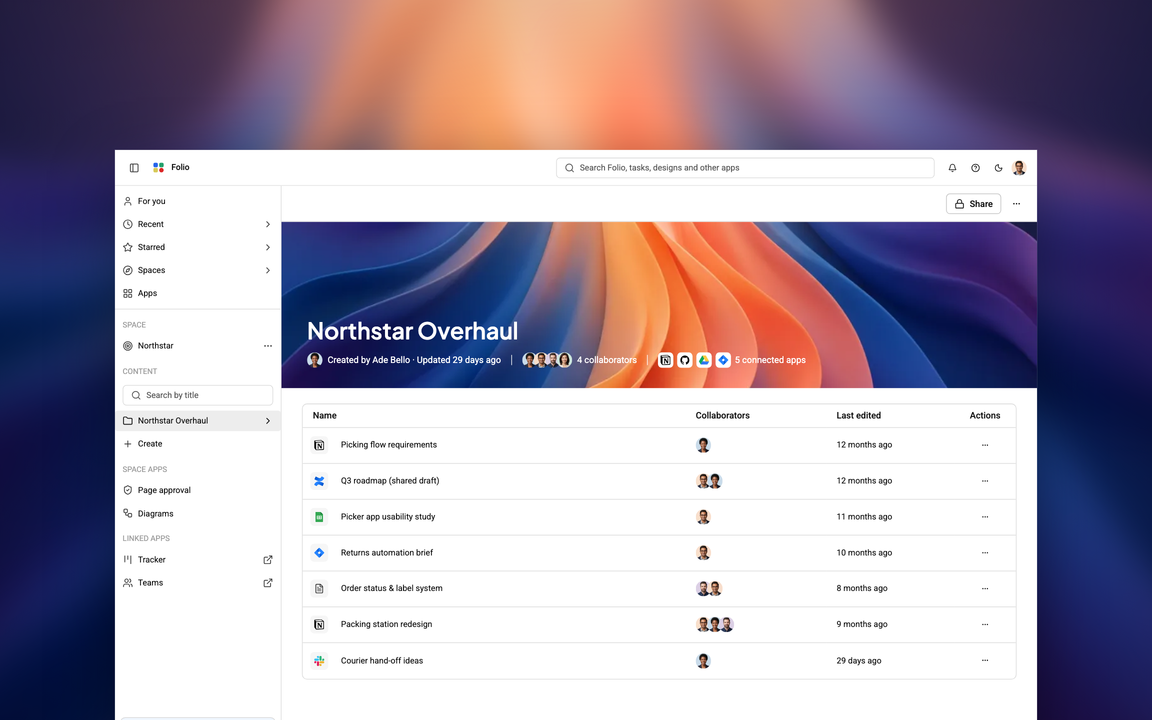
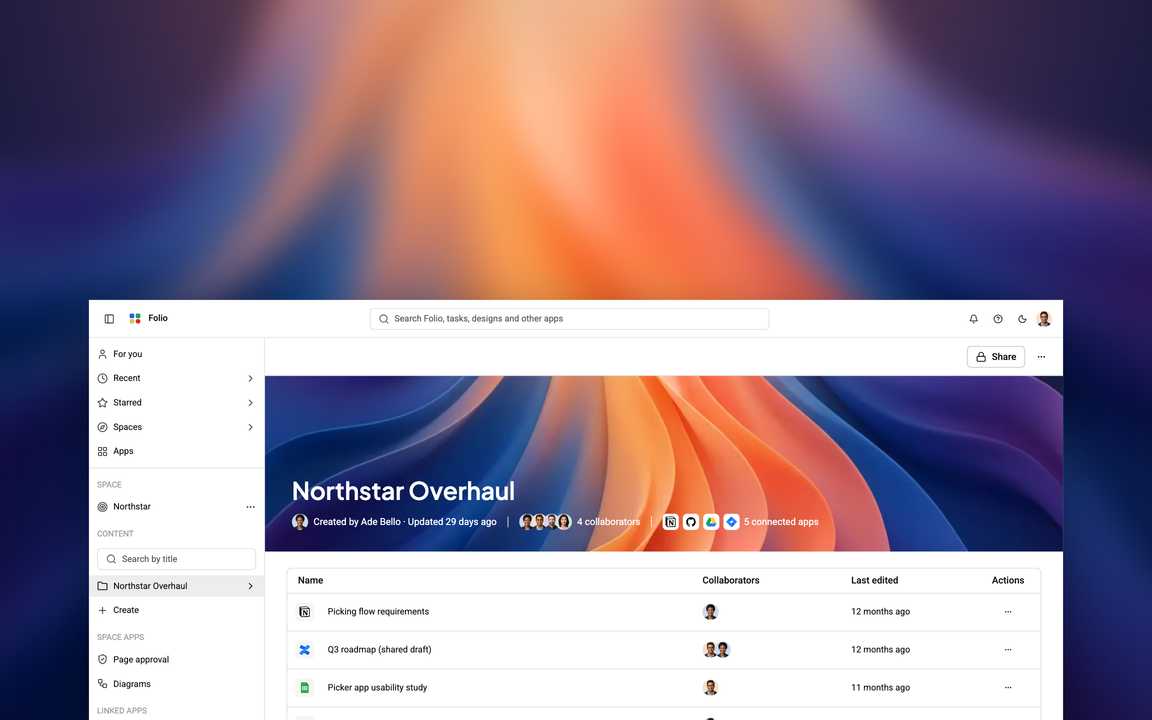
Block 04: responsive layout, centred top search, aligned thumbnail
- Below 1024px the sidebar is a drawer from the top bar (Esc and backdrop
  close it); the top search hides; the table drops columns; banner and
  document tighten. No sideways scroll at 390 or 768.
- The top search is centred between the logo and the icons, as in Figma.
  TopBar's additional slot can't centre, so it rides in the leading slot.
- Thumbnail window placed like the other blocks (300px down, 89px in,
  974px wide at 1152×720).

diff --git a/blocks/folio/index.tsx b/blocks/folio/index.tsx
@@ -47,6 +47,8 @@ function subscribeToTheme(onChange: () => void) {
 export default function Folio({ screen: segments = [], basePath = '/blocks/folio' }: { screen?: string[]; basePath?: string }) {
 	const [screen, setScreen] = useState<Screen>(() => toScreen(segments[0]));
 	const [collapsed, setCollapsed] = useState(false);
+	// Below 1024px the sidebar is a drawer over the content instead of a rail.
+	const [drawerOpen, setDrawerOpen] = useState(false);
 	// The space's page tree: closed on the overview, open on a page (as in Figma).
 	const [treeOpen, setTreeOpen] = useState(() => toScreen(segments[0]) === 'page');
 	const [query, setQuery] = useState('');
@@ -55,6 +57,7 @@ export default function Folio({ screen: segments = [], basePath = '/blocks/folio
 	const go = useCallback(
 		(next: Screen) => {
 			setScreen(next);
+			setDrawerOpen(false);
 			if (next === 'page') setTreeOpen(true);
 			window.history.pushState(null, '', next === 'space' ? basePath : `${basePath}/${PAGE_SLUG}`);
 			document.getElementById('folio-main')?.scrollTo({ top: 0 });
@@ -67,6 +70,22 @@ export default function Folio({ screen: segments = [], basePath = '/blocks/folio
 		window.addEventListener('popstate', sync);
 		return () => window.removeEventListener('popstate', sync);
 	}, [basePath]);
+
+	useEffect(() => {
+		if (!drawerOpen) return;
+		const close = (event: globalThis.KeyboardEvent) => event.key === 'Escape' && setDrawerOpen(false);
+		window.addEventListener('keydown', close);
+		return () => window.removeEventListener('keydown', close);
+	}, [drawerOpen]);
+
+	function toggleSidebar() {
+		if (window.matchMedia('(min-width: 1024px)').matches) {
+			setCollapsed((value) => !value);
+		} else {
+			setCollapsed(false);
+			setDrawerOpen((value) => !value);
+		}
+	}
 
 	function toggleTheme() {
 		const next = theme === 'dark' ? 'light' : 'dark';
@@ -109,26 +128,29 @@ export default function Folio({ screen: segments = [], basePath = '/blocks/folio
 		<div className={`flex h-screen flex-col bg-background-canvas ${onBrand}`}>
 			<TopBar
 				showSidebarToggle
-				onSidebarToggle={() => setCollapsed((value) => !value)}
+				onSidebarToggle={toggleSidebar}
 				showLogo={false}
 				showProductName={false}
 				showLeading
+				// TopBar keeps its search slot in the fixed right cluster. Figma centres the search in the
+				// space between the logo and the icons, so it rides in the leading slot, which is stretched
+				// with the [&>div:first-child]:flex-1 below (NOKGRID-GAPS.md).
 				leading={
-					<span className='flex items-center gap-component-sm text-text-primary' style={text['label-md']}>
-						<span className='flex size-6 items-center justify-center'>
-							<FolioMark />
+					<>
+						<span className='flex shrink-0 items-center gap-component-sm text-text-primary' style={text['label-md']}>
+							<span className='flex size-6 items-center justify-center'>
+								<FolioMark />
+							</span>
+							{app.name}
 						</span>
-						{app.name}
-					</span>
-				}
-				showAdditional
-				additional={
-					<div className='flex w-full justify-center'>
-						<div className='w-[591px] max-w-full'>
-							<SearchInput size='sm' placeholder={app.search} aria-label={app.search} />
+						<div className='hidden min-w-0 flex-1 justify-center px-component-lg lg:flex'>
+							<div className='w-[591px] max-w-full'>
+								<SearchInput size='sm' placeholder={app.search} aria-label={app.search} />
+							</div>
 						</div>
-					</div>
+					</>
 				}
+				showAdditional={false}
 				showSearch={false}
 				showActions
 				actions={
@@ -147,10 +169,18 @@ export default function Folio({ screen: segments = [], basePath = '/blocks/folio
 						<Face person={me} />
 					</div>
 				}
-				className='w-full shrink-0'
+				className='w-full shrink-0 [&>div:first-child]:flex-1'
 			/>
 
-			<div className='flex min-h-0 flex-1'>
+			<div className='relative flex min-h-0 flex-1'>
+				{drawerOpen && (
+					<button
+						type='button'
+						aria-label='Close navigation'
+						onClick={() => setDrawerOpen(false)}
+						className='absolute inset-0 z-20 bg-black/40 lg:hidden'
+					/>
+				)}
 				<Sidebar
 					role='navigation'
 					aria-label={app.name}
@@ -158,7 +188,7 @@ export default function Folio({ screen: segments = [], basePath = '/blocks/folio
 					onCollapsedChange={setCollapsed}
 					showBorder={false}
 					showFooter={false}
-					className='relative z-10 shrink-0'
+					className={`relative z-10 shrink-0 max-lg:absolute max-lg:inset-y-0 max-lg:left-0 max-lg:z-30 max-lg:shadow-lg ${drawerOpen ? '' : 'max-lg:hidden'}`}
 					style={{
 						height: '100%',
 						borderRight: '1px solid var(--nok-color-border-default)',
@@ -250,19 +280,19 @@ export default function Folio({ screen: segments = [], basePath = '/blocks/folio
 				</Sidebar>
 
 				<main id='folio-main' className='relative min-w-0 flex-1 overflow-y-auto bg-background-surface'>
-					<div className='sticky top-0 z-10 flex h-14 items-center justify-between border-0 border-b border-solid border-border-default bg-background-surface px-component-lg'>
-						<div>
+					<div className='sticky top-0 z-10 flex h-14 items-center justify-between gap-component-md border-0 border-b border-solid border-border-default bg-background-surface px-component-lg'>
+						<div className='min-w-0 overflow-hidden'>
 							{screen === 'page' && (
 								<Breadcrumb aria-label='Breadcrumb'>
-									<BreadcrumbItem label={space.name} showSeparator={false} />
-									<BreadcrumbItem label={space.project} onClick={() => go('space')} />
-									<BreadcrumbItem label={page.title} state='current' aria-current='page' />
+									<BreadcrumbItem label={space.name} showSeparator={false} className='max-sm:hidden' />
+									<BreadcrumbItem label={space.project} onClick={() => go('space')} className='max-sm:[&>*:first-child]:hidden' />
+									<BreadcrumbItem label={page.title} state='current' aria-current='page' className='max-sm:hidden' />
 								</Breadcrumb>
 							)}
 						</div>
 						<div className='flex items-center gap-component-sm'>
 							{screen === 'page' && (
-								<span className='text-text-secondary' style={text['body-sm']}>
+								<span className='text-text-secondary max-md:hidden' style={text['body-sm']}>
 									{page.published}
 								</span>
 							)}
@@ -279,7 +309,7 @@ export default function Folio({ screen: segments = [], basePath = '/blocks/folio
 			</div>
 
 			{screen === 'space' && (
-				<div className='fixed bottom-6 right-6 z-20 flex flex-col gap-component-md'>
+				<div className='fixed bottom-4 right-4 z-20 lg:bottom-6 lg:right-6 flex flex-col gap-component-md'>
 					{/* Icon-only md squeezes its icon (NOKGRID-GAPS.md), so the padding is set back to Figma's 8px. */}
 					<Button variant='secondary' size='md' icon='Info' iconPosition='only' aria-label='About this space' className='!p-component-sm' />
 					<Button

diff --git a/blocks/folio/space.tsx b/blocks/folio/space.tsx
@@ -8,24 +8,24 @@ import { text } from './text';
 export function Space({ open }: { open: (doc: Doc) => void }) {
 	return (
 		<>
-			<header className='relative flex h-[260px] shrink-0 flex-col justify-end gap-component-md overflow-hidden px-10 py-8'>
+			<header className='relative flex min-h-[220px] shrink-0 flex-col justify-end gap-component-md overflow-hidden px-5 py-6 md:h-[260px] md:px-10 md:py-8'>
 				{/* eslint-disable-next-line @next/next/no-img-element */}
 				<img src={space.banner} alt='' className='pointer-events-none absolute inset-0 size-full object-cover' />
 				{/* The banner text is white over the artwork in both modes. */}
-				<h1 className='relative m-0 text-white' style={{ ...text['display-sm'], fontSize: 36, lineHeight: '44px' }}>
+				<h1 className='relative m-0 text-[28px] leading-9 text-white md:text-[36px] md:leading-[44px]' style={{ ...text['display-sm'], fontSize: undefined, lineHeight: undefined }}>
 					{space.project}
 				</h1>
-				<div className='relative flex items-center gap-component-lg text-white' style={text['body-md']}>
+				<div className='relative flex flex-wrap items-center gap-x-component-lg gap-y-component-sm text-white' style={text['body-md']}>
 					<span className='flex items-center gap-component-sm'>
 						<Face person={space.createdBy} />
 						Created by {space.createdBy.name} · {space.updated}
 					</span>
-					<span aria-hidden='true' className='h-4 w-px bg-white' />
+					<span aria-hidden='true' className='h-4 w-px bg-white max-lg:hidden' />
 					<span className='flex items-center gap-component-sm'>
 						<Faces people={space.collaborators} />
 						{space.collaborators.length} collaborators
 					</span>
-					<span aria-hidden='true' className='h-4 w-px bg-white' />
+					<span aria-hidden='true' className='h-4 w-px bg-white max-lg:hidden' />
 					<span className='flex items-center gap-[6px]'>
 						{space.apps.map((logo) => (
 							<span key={logo} className='rounded-md bg-white p-1'>
@@ -37,7 +37,7 @@ export function Space({ open }: { open: (doc: Doc) => void }) {
 				</div>
 			</header>
 
-			<div className='px-8 pb-8 pt-layout-lg'>
+			<div className='px-4 pb-24 pt-5 md:px-8 md:pb-8 md:pt-layout-lg'>
 				{/* NokGridCore's TableCell takes text only; these cells hold logos, avatars and buttons (NOKGRID-GAPS.md). */}
 				<table className='w-full border-separate border-spacing-0 overflow-hidden rounded-lg border border-solid border-border-default bg-background-surface'>
 					<thead>
@@ -47,7 +47,7 @@ export function Space({ open }: { open: (doc: Doc) => void }) {
 									key={label}
 									scope='col'
 									className={`border-0 border-b border-solid border-border-default px-component-lg py-component-sm font-medium ${
-										['', 'w-[220px]', 'w-[200px]', 'w-[96px] text-center'][i]
+										['', 'w-[220px] max-md:hidden', 'w-[200px] max-lg:hidden', 'w-[56px] text-center md:w-[96px]'][i]
 									}`}>
 									{label}
 								</th>
@@ -70,7 +70,7 @@ export function Space({ open }: { open: (doc: Doc) => void }) {
 													<Logo name={doc.source} size={16} />
 												</span>
 											:	<IconTile icon='FileText' size='medium' plate='background-canvas' />}
-											<span className='px-component-lg text-text-primary' style={text['body-sm']}>
+											<span className='px-component-md text-text-primary md:px-component-lg' style={text['body-sm']}>
 												{doc.opens ?
 													<button
 														type='button'
@@ -85,10 +85,10 @@ export function Space({ open }: { open: (doc: Doc) => void }) {
 											</span>
 										</span>
 									</td>
-									<td className={`${cell} pl-component-lg`}>
+									<td className={`${cell} pl-component-lg max-md:hidden`}>
 										<Faces people={doc.collaborators} />
 									</td>
-									<td className={`${cell} px-component-lg text-text-primary`} style={text['body-sm']}>
+									<td className={`${cell} px-component-lg text-text-primary max-lg:hidden`} style={text['body-sm']}>
 										{doc.edited}
 									</td>
 									<td className={`${cell} text-center`}>

diff --git a/blocks/folio/page.tsx b/blocks/folio/page.tsx
@@ -10,9 +10,9 @@ const sectionHeading = { ...text['display-sm'], fontSize: 26, lineHeight: '34px'
 /** A document in the space: title, meta row and the page's sections. */
 export function Page() {
 	return (
-		<article className='flex justify-center px-layout-lg py-16'>
+		<article className='flex justify-center px-5 py-10 md:px-layout-lg md:py-16'>
 			<div className='flex w-[760px] max-w-full flex-col gap-5 text-text-primary'>
-				<h1 className='m-0' style={pageTitle}>
+				<h1 className='m-0 max-md:!text-[32px] max-md:!leading-10' style={pageTitle}>
 					{page.title}
 				</h1>
 				<ul className='m-0 flex list-none flex-wrap items-center gap-5 p-0 text-text-secondary' style={text['body-sm']}>
@@ -30,7 +30,7 @@ export function Page() {
 				<span aria-hidden='true' className='h-4' />
 				{page.sections.map((section) => (
 					<section key={section.heading} className='flex flex-col gap-5'>
-						<h2 className='m-0' style={sectionHeading}>
+						<h2 className='m-0 max-md:!text-[22px] max-md:!leading-[30px]' style={sectionHeading}>
 							{section.heading}
 						</h2>
 						{section.paragraphs.map((p) => (

diff --git a/NOKGRID-GAPS.md b/NOKGRID-GAPS.md
@@ -87,7 +87,7 @@ The Upgrade modal's plan rows (radio, label, badge, price in a bordered card tha
 
 ### Blocks 04 (Folio)
 - **TopBar's logo is a named icon.** Folio's mark is four status-coloured squares, so it goes in the `leading` slot with the product name (`FolioMark`, `blocks/folio/parts.tsx`).
-- **TopBar's built-in search can't be sized or labelled** (as in Blocks 01). Folio puts a labelled `SearchInput` in the `additional` slot.
+- **TopBar's built-in search can't be sized or labelled** (as in Blocks 01), **and its `additional` slot sits in the fixed right cluster,** so nothing there can be centred. Figma centres Folio's search between the logo and the icons, so a labelled `SearchInput` goes in the `leading` slot, with the left cluster stretched by `[&>div:first-child]:flex-1`.
 - **No `sidebar.subgroup`.** Figma nests the space's pages in an indented subgroup; Folio composes it as an indented group of `MenuItem`s, shown only while the sidebar is expanded.
 - **Sidebar width is fixed at 240px.** Folio is 260px in Figma, set inline while expanded.
 - **Table cells take text only** (as in Blocks 01). Folio's rows hold logos, avatar stacks and an action button, so the table is a semantic `<table>` styled with tokens.

diff --git a/blocks/folio/README.md b/blocks/folio/README.md
@@ -7,6 +7,8 @@ Folio, a team workspace: a space overview and one of its pages, under a top bar 
 
 Open the page from its table row or from the sidebar's page tree. "Northstar Overhaul" in the sidebar opens and closes the tree, and "Search by title" filters it. The top bar's panel icon collapses the sidebar. Screens are client-side routes under the block's base path (`basePath` prop), so Back and Forward work.
 
+Below 1024px the sidebar becomes a drawer from the top bar's panel icon (Esc or a tap outside closes it), the top search hides, and the table drops Last edited (and Collaborators on phones).
+
 Light and dark come from the token modes: set `data-theme="dark"` on a parent. The top bar's switch changes the mode and saves the choice.
 
 Placeholder content (people, pages, the space and the document) lives in `data.ts`. Images are served from `/blocks/folio/`: the banner, the avatar photos (`people/`) and third-party logos (`logos/`). Logos belong to their owners and aren't covered by the MIT licence.
